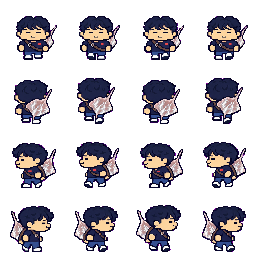
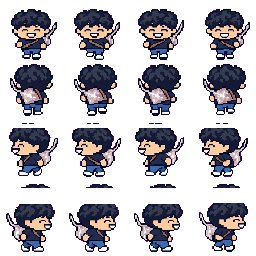
fix(story): BUILD273 캐시 키 273·도미조림 형섭식 1등신(사진 얼굴 도트화)·흐미 1:14:44.5·일행 가운데 정렬
- src/data/build.js 270 → 273 (271~273 동안 안 올려 브라우저가 옛 그림을 씀)
- 도미조림: 형섭 시트를 그대로 참조로 다시 그린 1등신, 붙여넣은 사진(#121)의 웃는 얼굴·웨이브 머리를
  도트화. 걷기 시트·초상화·흐미/점프 자세(점프 띠 160×144)·전투 그림·전투 대기 4프레임 전부 재생성
- 흐미 클립 1:14:44.50 부터 1.2초(사용자 “45초쯤”)
- 윗길 연출: 일행은 윗길 그대로 올라와 밑동 바로 아래 가운데, 둘은 뛰어 내려와 일행 양옆 같은 높이에 착지해 일행을 본다
- 도현 전투 대기 시트 화면 안(dx 24)

검사: 단위 통과, 플레이테스트 92 항목 통과, enemy.mjs domijorim --pattern=0|1 통과.

diff --git a/src/data/cutscenes/jjajang_sakura5.js b/src/data/cutscenes/jjajang_sakura5.js
@@ -28,10 +28,10 @@ export const PEEK_VIEW = [55, 5];            // “카메라 살짝 위로”: y
 export const CAM = { toClearing: 2.4, settle: 0.6, peek: 1.6, peekHold: 0.7, peekBack: 1.4, back: 1.4 };   // 카메라가 먼저 천천히 가고 대사는 그 뒤
 export const GIRLS_ZOOM = { zoom: 1.6, at: [1838, 296], duration: 1.4 };   // (가순이들로 카메라가 이동): 가순이 셋 가운데(맵 meta girlsFocus)로 천천히 줌인
 export const HEUMI = { height: 30, duration: 0.5, sfx: 'domijorim_heumi' };   // “흐미!!” 점프 + 가재맨 1:14:46.8 “흐미이이이!” 1.05초
-export const PARTY_SPOTS = { player: [1628, 304], gyeongsub: [1588, 308], ppaman: [1668, 308] };   // 밑동 왼쪽(맵 meta partyX 1640, 발 320) — 나란히
-export const PARTY_WALK = { firstY: 364, followerY: 372 };   // ㄱ자: 먼저 위로(배우·밑동 아래), 왼쪽으로, 다시 위로
-export const LEAP = { domijorim: { by: [-404, 70], height: 80 }, dohyun: { by: [-224, 70], height: 56 }, duration: 0.8 };   // 둘이 일행 **아래(앞)** 양옆으로 뛰어 착지(사용자 “밑으로 점프해서 바라보게”): 도미조림 x 1566, 도현 1708, 발 384 → 일행을 올려다본다
-export const LEAP_VIEW = [55, 10];          // 뛰기 전 카메라를 한 칸 아래로(y 156): 착지한 둘(발 384 → 화면 228)까지 대화창 위에
+export const PARTY_SPOTS = { player: [1704, 364], gyeongsub: [1660, 368], ppaman: [1748, 368] };   // 윗길 그대로 올라와 밑동 바로 아래 가운데(발 380, 사용자 “왼쪽으로 오지 말고 그냥 가운데”) — 경섭 왼쪽·억빠맨 오른쪽 나란히
+export const PARTY_WALK = { followerY: 392 };   // 동료는 위로 올라온 뒤 옆으로 한 걸음(44px)만
+export const LEAP = { domijorim: { by: [-402, 66], height: 80 }, dohyun: { by: [-120, 66], height: 56 }, duration: 0.8 };   // 둘이 뛰어 내려와 일행 양옆(같은 높이 발 380): 도미조림 x 1580(경섭 왼쪽), 도현 1812(억빠맨 오른쪽) → 일행을 본다
+export const LEAP_VIEW = [55, 10];          // 윗길 연출 카메라(y 156): 배우(발 314 → 158)·일행(발 380 → 224)·착지한 둘까지 대화창 위에
 export const DUO_BATTLE = { enemies: ['domijorim', 'dohyun'], bgm: 'petal_dance', bg: 'sakura', flag: 'sakura5_duo_won' };
 export const SAKURA5_SCENE_FLAG = 'sakura5_scene_done';
 export const SAKURA5_CLEARING_FLAG = 'sakura5_clearing_visited';
@@ -70,15 +70,15 @@ export const jjajang_sakura5_scene = [
 export const jjajang_sakura5_clearing = [
   { set: { [SAKURA5_CLEARING_FLAG]: true } },
   { bgm: CLEARING_BGM, volume: 0.5, fadeIn: 0.6 },
-  // 일행이 ㄱ자로 달려 올라와 밑동 왼쪽에 나란히(대각선 금지 — 위·왼쪽·위)
+  // 일행이 윗길 그대로 달려 올라와 밑동 바로 아래 가운데에(주인공은 곧장 위로, 동료는 올라온 뒤 옆으로 한 걸음)
   { parallel: [
-    [{ move: 'player', px: game => [game.player.x, PARTY_WALK.firstY], run: true }, { move: 'player', px: [PARTY_SPOTS.player[0], PARTY_WALK.firstY], run: true }, { move: 'player', px: PARTY_SPOTS.player, run: true, facing: 'up' }],
-    [{ move: 'gyeongsub', px: game => [actor(game, 'gyeongsub')?.x ?? game.player.x, PARTY_WALK.followerY], run: true }, { move: 'gyeongsub', px: [PARTY_SPOTS.gyeongsub[0], PARTY_WALK.followerY], run: true }, { move: 'gyeongsub', px: PARTY_SPOTS.gyeongsub, run: true, facing: 'up' }],
-    [{ move: 'ppaman', px: game => [actor(game, 'ppaman')?.x ?? game.player.x, PARTY_WALK.followerY], run: true }, { move: 'ppaman', px: [PARTY_SPOTS.ppaman[0], PARTY_WALK.followerY], run: true }, { move: 'ppaman', px: PARTY_SPOTS.ppaman, run: true, facing: 'up' }],
+    [{ move: 'player', px: PARTY_SPOTS.player, run: true, facing: 'up' }],
+    [{ move: 'gyeongsub', px: [PARTY_SPOTS.gyeongsub[0], PARTY_WALK.followerY], run: true, facing: 'up' }, { move: 'gyeongsub', px: PARTY_SPOTS.gyeongsub, run: true, facing: 'up' }],
+    [{ move: 'ppaman', px: [PARTY_SPOTS.ppaman[0], PARTY_WALK.followerY], run: true, facing: 'up' }, { move: 'ppaman', px: PARTY_SPOTS.ppaman, run: true, facing: 'up' }],
   ] },
   ...PARTY.map(id => ({ face: id, dir: 'right' })),
   // (카메라 천천히 — 일행과 다섯이 한 화면) → 멈춘 뒤 도미조림 느낌표, 일행 쪽을 본다
-  { camera: CLEARING_VIEW, duration: CAM.toClearing },
+  { camera: LEAP_VIEW, duration: CAM.toClearing },
   { wait: CAM.settle },
   { face: 'domijorim', dir: 'toward:player' },
   startle(['domijorim']),
@@ -97,7 +97,7 @@ export const jjajang_sakura5_clearing = [
   // (카메라 살짝 위로 갔다가 다시 돌아옴 — 천천히, 나무 맨 위는 화면 밖)
   { camera: PEEK_VIEW, duration: CAM.peek },
   { wait: CAM.peekHold },
-  { camera: CLEARING_VIEW, duration: CAM.peekBack },
+  { camera: LEAP_VIEW, duration: CAM.peekBack },
   { wait: 0.4 },
   H('사실 저기 벚꽃나무 맨 위에'),
   H('이상한 짜장면? 같은게 있는데 가순이들이 자꾸 최미스그새끼 준다고 가져와달라는거에요'),
@@ -135,17 +135,15 @@ export const jjajang_sakura5_clearing = [
   P('걍 족치고 가져가죠'),
   H('훗.. 악역을 자처하시겠다.'),
   close,
-  // 둘이 일행 아래 양옆으로 뛰어 내려와 일행을 바라본다 — 카메라 먼저 한 칸 아래로, 뛰는 자세(leap 띠: 웅크림 → 공중에서 홍어 뽑음 → 착지 → 전투 자세), 착지음
-  { camera: LEAP_VIEW, duration: 1.0 },
-  { wait: 0.3 },
+  // 둘이 뛰어 내려와 일행 양옆(같은 높이)에 서서 일행을 바라본다 — 뛰는 자세(leap 띠: 웅크림 → 공중에서 홍어 뽑음 → 착지 → 전투 자세), 착지음
   { async: [{ wait: LEAP.duration }, { sfx: 'thud' }] },
   { parallel: [
     { motion: 'domijorim', name: 'leap', sfx: 'jump' }, { hop: 'domijorim', by: LEAP.domijorim.by, height: LEAP.domijorim.height, duration: LEAP.duration, sfx: false },
     { motion: 'dohyun', name: 'leap' }, { hop: 'dohyun', by: LEAP.dohyun.by, height: LEAP.dohyun.height, duration: LEAP.duration, sfx: false },
   ] },
   pose('domijorim', 'ready'), pose('dohyun', 'ready'),
-  { face: 'domijorim', dir: 'up' }, { face: 'dohyun', dir: 'up' },
-  ...PARTY.map(id => ({ face: id, dir: 'down' })),
+  { face: 'domijorim', dir: 'right' }, { face: 'dohyun', dir: 'left' },
+  { face: 'player', dir: 'left' }, { face: 'gyeongsub', dir: 'left' }, { face: 'ppaman', dir: 'right' },
   { hop: 'domijorim', by: [0, 0], height: HEUMI.height, duration: HEUMI.duration, sfx: HEUMI.sfx },
   D('내꺼랑께요 흐미!!!!!!!!!!!!'),
   close,

diff --git a/src/data/character-motions.js b/src/data/character-motions.js
@@ -7,10 +7,10 @@ export const CHARACTER_MOTIONS = {
   domijorim: {
     heumi: { src: 'assets/sprites/domijorim-heumi.png', scale: 0.5, colorKey: { rMin: 256, gMax: -1, bMin: 256 },
       frames: [[0, 0.12], [1, 0.32], [2, 0.7], [3, 0.22]].map(([cell, duration]) => ({ rect: [cell * 128, 0, 128, 128], pivot: [64, 120], duration })) },
-    leap: { src: 'assets/sprites/domijorim-leap.png', scale: 0.5, colorKey: { rMin: 256, gMax: -1, bMin: 256 },   // 칸 160(홍어를 옆으로 뻗는 착지 칸이 128 을 넘는다)
-      frames: [[0, 0.18], [1, 0.62], [2, 0.2], [3, 0.6]].map(([cell, duration]) => ({ rect: [cell * 160, 0, 160, 128], pivot: [80, 120], duration })) },
+    leap: { src: 'assets/sprites/domijorim-leap.png', scale: 0.5, colorKey: { rMin: 256, gMax: -1, bMin: 256 },   // 칸 160×144(홍어를 옆·위로 뻗는 칸이 128 을 넘는다), 발 = 칸 아래 8px
+      frames: [[0, 0.18], [1, 0.62], [2, 0.2], [3, 0.6]].map(([cell, duration]) => ({ rect: [cell * 160, 0, 160, 144], pivot: [80, 136], duration })) },
     ready: { src: 'assets/sprites/domijorim-leap.png', scale: 0.5, colorKey: { rMin: 256, gMax: -1, bMin: 256 },
-      frames: [{ rect: [3 * 160, 0, 160, 128], pivot: [80, 120], duration: 1 }] },
+      frames: [{ rect: [3 * 160, 0, 160, 144], pivot: [80, 136], duration: 1 }] },
   },
   dohyun: {
     wave: { src: 'assets/sprites/dohyun-wave.png', scale: 0.5, colorKey: { rMin: 256, gMax: -1, bMin: 256 },

diff --git a/src/data/build.js b/src/data/build.js
@@ -1,1 +1,1 @@
-export const BUILD = '2026-09-20.270';
+export const BUILD = '2026-09-20.273';

diff --git a/assets/source/sakura5-v1/poses_export.py b/assets/source/sakura5-v1/poses_export.py
@@ -17,10 +17,10 @@ ROOT = Path(__file__).resolve().parent
 REPO = ROOT.parents[2]
 CELL = 128
 GRID = 512
-# 모션: (캐릭터, 기준 칸 index(0~3), 기준 칸 키 / 걷기 키 비율 — 팔을 든 자세는 걷기보다 커야 한다, 칸 폭(홍어를 옆으로 뻗는 leap 은 160))
+# 모션: (캐릭터, 기준 칸 index(0~3), 기준 칸 키 / 걷기 키 비율 — 팔을 든 자세는 걷기보다 커야 한다, 칸 폭 또는 (폭, 높이) — 홍어를 옆·위로 뻗는 leap 은 160×144, 발은 칸 아래 8px)
 MOTIONS = {
     'domijorim-heumi': ('domijorim', 3, 1.02, 128),
-    'domijorim-leap': ('domijorim', 3, 1.18, 160),
+    'domijorim-leap': ('domijorim', 3, 1.18, (160, 144)),
     'dohyun-wave': ('dohyun', 0, 1.0, 128),
     'dohyun-leap': ('dohyun', 3, 1.02, 128),
 }
@@ -40,18 +40,19 @@ def walk_height(character: str) -> int:
 
 
 def export(name: str) -> None:
-    character, ref_cell, factor, cell_w = MOTIONS[name]
+    character, ref_cell, factor, cell = MOTIONS[name]
+    cell_w, cell_h = cell if isinstance(cell, tuple) else (cell, CELL)
     clean = key_magenta(Image.open(ROOT / f'{name}-raw.png'))
     cells = [clean.crop((c * GRID, r * GRID, (c + 1) * GRID, (r + 1) * GRID)) for r in range(2) for c in range(2)]
     crops = [cell.crop(cell.getbbox()) for cell in cells]
     target = walk_height(character) * factor
     scale = target / crops[ref_cell].height
-    strip = Image.new('RGBA', (cell_w * 4, CELL))
+    strip = Image.new('RGBA', (cell_w * 4, cell_h))
     for i, crop in enumerate(crops):
         w, h = max(1, round(crop.width * scale)), max(1, round(crop.height * scale))
         sized = crop.resize((w, h), Image.Resampling.NEAREST)
-        assert w <= cell_w and h <= CELL, f'{name} 칸 {i} 이 칸을 넘는다 ({w}×{h} > {cell_w}×{CELL})'
-        strip.paste(sized, (i * cell_w + (cell_w - w) // 2, CELL - 8 - h))
+        assert w <= cell_w and h <= cell_h, f'{name} 칸 {i} 이 칸을 넘는다 ({w}×{h} > {cell_w}×{cell_h})'
+        strip.paste(sized, (i * cell_w + (cell_w - w) // 2, cell_h - 8 - h))
     out = REPO / 'assets/sprites' / f'{name}.png'; strip.save(out)
     print(name, 'scale', round(scale, 3), 'heights', [round(c.height * scale) for c in crops], '→', out.name)
 

diff --git a/assets/source/sakura5-v1/export.py b/assets/source/sakura5-v1/export.py
@@ -20,8 +20,9 @@ ROOT = Path(__file__).resolve().parent
 REPO = ROOT.parents[2]
 DIRECTIONS = ("down", "up", "left", "right")
 RAW_ROWS = (0, 3, 1, 2)            # 원본 행 순서 down/left/right/up → 게임 순서 down/up/left/right
+RAW_ROWS_BY = {"domijorim": (0, 1, 2, 3)}   # 도미조림 5차 시트는 형섭 시트를 그대로 참조해 행 순서가 이미 down/up/left/right
 CELL = 64
-FIT = {"dohyun": "0.74", "domijorim": "0.84"}   # 도현: 처음 0.92(“얇고 살짝 길죽하게”)에서 사용자 “비율 키 20퍼 줄여라” → ×0.8 = 0.74. 도미조림 2등신 시트는 기본
+FIT = {"dohyun": "0.74", "domijorim": "0.98"}   # 도현: 처음 0.92(“얇고 살짝 길죽하게”)에서 사용자 “비율 키 20퍼 줄여라” → ×0.8 = 0.74. 도미조림 5차 시트는 형섭 시트(칸을 거의 채움)와 같은 크기가 되게 0.98
 SHEETS = ("dohyun", "domijorim", "gasuni4", "gasuni5", "gasuni6")
 TREE_SCALE = 3                     # 1024 원본 → 1/3
 
@@ -55,7 +56,7 @@ def export_sheet(name: str) -> None:
     sheet = Image.new("RGBA", (CELL * 4, CELL * 4))
     for row, direction in enumerate(DIRECTIONS):
         for column in range(4):
-            info = metadata["frames"][RAW_ROWS[row] * 4 + column]
+            info = metadata["frames"][RAW_ROWS_BY.get(name, RAW_ROWS)[row] * 4 + column]
             crop = clean.crop(info["source_box"]).crop(info["crop_bbox"])
             sized = crop.resize(tuple(info["output_size"]), Image.Resampling.NEAREST)
             frame = Image.new("RGBA", (CELL, CELL))

diff --git a/docs/STATE.md b/docs/STATE.md
@@ -2,7 +2,9 @@
 
 마지막 갱신: 2026-09-20
 
-**BUILD273 — 벚꽃 숲 5 3차 정정**(사용자 2026-09-20, 원문 `jjajang_sakura5.md` 3차 정정 절): 흐미 클립 1:14:43.2 부터 1.25초(“44초에 소리라고”); 도미조림 시트·자세·전투 그림·전투 대기를 **형섭 시트를 스타일 참조로 한 1등신**(사용자 “기존 섭타룬 애들 참고, 1등신으로”)·사진 얼굴·머리(굵은 웨이브) 그대로 재생성(모델은 전부 gpt-image-2.5-sunburst); “도미조림형이 악역을 자처해서..” 는 도현 대사; 둘은 일행 **아래(앞)** 양옆으로 뛰어 착지해 일행을 올려다본다(뛰기 전 카메라 한 칸 아래); 전투 대기는 정지 그림+sway 대신 4프레임 시트(`assets/enemies/<id>-battle-idle.png`, gpt-image 2×2 → 160 셀, idle sway 0 — 도미조림 숨쉬기·불꽃, 도현 좌우 살랑살랑 춤); 카톡 패턴은 한 번에 한 줄씩(왼쪽 → 0.55초 뒤 ≥64px 떨어진 줄 오른쪽 → 둘 다 지나간 뒤 낙하), 속도 110/200.
+**BUILD273(후속) — 캐시 키·일행 자리**: `src/data/build.js` BUILD 를 270 → 273 으로(271~273 동안 안 올려 브라우저가 옛 그림을 썼다 — 사용자 “똑같잖아 / 메인에선 빌드버전 270 유지”. **그림·소리를 바꾸면 BUILD 를 같이 올린다**). 윗길 연출의 일행은 왼쪽으로 돌지 않고 윗길 그대로 올라와 밑동 바로 아래 가운데에(사용자 “왜 왼쪽으로 오냐 그냥 가운데”), 둘은 뛰어 내려와 일행 양옆 같은 높이에 착지해 일행을 본다.
+
+**BUILD273 — 벚꽃 숲 5 3차 정정**(사용자 2026-09-20, 원문 `jjajang_sakura5.md` 3차 정정 절): 흐미 클립 1:14:43.2 부터 1.25초(“44초에 소리라고”); 도미조림 시트·자세·전투 그림·전투 대기를 **형섭 시트를 그대로 다시 그린 1등신**(참조 = 형섭 런타임 시트, 머리 2/3·같은 픽셀 크기·같은 포즈, 얼굴·머리·옷·홍어만 교체 — 사용자 “기존 섭타룬 애들 참고, 1등신으로 / 1등신이냐 저게?”, 얼굴은 붙여넣은 사진 #121 “얼굴 똑바로 똑같이 / 도트화만” 을 큰 참조로)으로 재생성(모델은 전부 gpt-image-2.5-sunburst); 흐미 클립은 1:14:44.5 부터 1.2초(“45초쯤”); “도미조림형이 악역을 자처해서..” 는 도현 대사; 둘은 일행 **아래(앞)** 양옆으로 뛰어 착지해 일행을 올려다본다(뛰기 전 카메라 한 칸 아래); 전투 대기는 정지 그림+sway 대신 4프레임 시트(`assets/enemies/<id>-battle-idle.png`, gpt-image 2×2 → 160 셀, idle sway 0 — 도미조림 숨쉬기·불꽃, 도현 좌우 살랑살랑 춤); 카톡 패턴은 한 번에 한 줄씩(왼쪽 → 0.55초 뒤 ≥64px 떨어진 줄 오른쪽 → 둘 다 지나간 뒤 낙하), 속도 110/200.
 
 **BUILD272 — 벚꽃 숲 5 재배치·스프라이트 재생성·연출/전투 재작업**(사용자 2차 정정 2026-09-20, 원문 `design/narrative/cutscenes/jjajang_sakura5.md` 2차 정정 절): ① “흐미” 클립을 1:14:46.8 “흐미이이이!”로 재절단(음성인식 확인, 삐- 처리음 제외). ② 거대 벚꽃 나무를 훨씬 크게 재생성(768×762, 밑동 짧게, 그림 위 412px 는 맵 밖 → 카메라에 맨 위가 안 보임), 배우 다섯은 밑동 오른쪽 땅(뿌리 앞, 밑동 36px 위), 일행 자리는 밑동 왼쪽. 연출 트리거는 갈림목 사이공간(49~52열). ③ 도미조림 2등신·사진 얼굴·황갈 피부 시트/초상화/전투 그림 재생성, 도현 시트(선화 얼굴) 재생성·키 20% 축소(fit 0.74, 전투 scale 0.72). ④ 자세 모션(gpt-image 2×2 그리드 → 128 띠, `character-motions.js`): 도미조림 heumi(두 팔 번쩍 외침)·leap(홍어 뽑고 착지·전투 자세)·ready, 도현 wave·hello·leap·ready. ⑤ 컷신: 카메라는 먼저 천천히(≥1.4초, 공터로 2.4초) 가고 멈춘 뒤 대사, 놀람은 살짝 점프+느낌표, 가순이들로 줌인(1.6배)·줌아웃, 둘이 뛰는 자세로 일행 양옆에 착지(착지음) → “내꺼랑께요 흐미!!!!” → `battleEntry`(공통 전투 진입 연출) → 전투. ⑥ 전투 패턴 재설계(`sakura5-patterns.js`, 회피 축 둘·전용 실루엣·예고·델타룬 소리, whoosh 금지): 홍어 부메랑(U턴·되돌아올 줄 예고·서리 조각), 횃불 둘 → 불기둥+불티, 도현 낙하 → 바닥 미끄러짐, 카톡 두 줄 + 큰 풍선 낙하. 말풍선(`speak`)은 원문 “흐미!!/내꺼랑께요”, “훗../악역을 자처하시겠다.”. ⑦ 목소리: 도현 지지직 제거(loudnorm 대신 lowpass·페이드), 도미조림 더 굵고 낮게(0.92배·저음 +7dB). 검사 `tests/unit/jjajang-sakura5.test.mjs`(재배치·카메라 시간·모션·진입 연출·패턴 계약), `tests/playtest/jjajang-sakura5.mjs`, `tests/playtest/enemy.mjs domijorim|dohyun --pattern=0|1`.
 

diff --git a/assets/source/sakura5-v1/README.md b/assets/source/sakura5-v1/README.md
@@ -30,3 +30,6 @@
 - 목소리 재조정: `voices/dohyun.mp3` = snd_txtal 1.1배 + lowpass 3.2kHz + 페이드(loudnorm 제거 — “지지직”), `voices/domijorim.mp3` = janitor 0.92배 + bass +7dB + lowpass 2.2kHz(“더 굵게 낮게”).
 - (3차, 사용자 “44초에 소리라고”) 1:14:43.20 부터 1.25초로 재절단(음성인식이 ‘아워’로 적은 1:14:42.9~44.06 발성 구간 = 흐미~). 1:14:46.8 절단은 폐기.
 - (4차, 사용자 “도트풍 퀄리티 기존 섭타룬 애들 참고 안 하나, 1등신으로”) `domijorim-chibi4-raw.png`(`domijorim-chibi4.prompt.txt`, 참조 = `domijorim-style-ref.png` — 형섭 런타임 시트(스타일·1등신 비율) + 사진(얼굴)): 형섭과 같은 도트 밀도·굵은 윤곽·1등신, 사진의 웨이브 머리·얼굴, 등에 얼린 홍어. `domijorim-raw.png` 로 채택, 자세·전투·전투 대기도 이 시트 참조로 재생성. 3차 시트는 `domijorim-v4-chibi3-raw.png`(커밋하지 않음). 모델은 전부 `openai/gpt-image-2.5-sunburst`(meta.json).
+- (4차, 사용자 “45초쯤 소리라고”) 1:14:44.50 부터 1.2초로 재절단(1:14:44.55~45.6 발성 구간). 43.2 절단은 폐기.
+- (5차, 사용자 “1등신이냐 저게?”) `domijorim-chibi5-raw.png`(`domijorim-chibi5.prompt.txt`, 참조 = `hero-sheet-ref.png` = 형섭 런타임 시트를 마젠타에 얹어 1024 로): “형섭 시트를 그대로 다시 그리되 얼굴·머리·옷·홍어만 바꿔라” — 머리 2/3·같은 픽셀 크기·같은 걷기 포즈·행 순서(down/up/left/right, `export.py RAW_ROWS_BY`). `domijorim-raw.png` 로 채택, 자세·전투·전투 대기 재생성. 4차 시트는 `domijorim-v5-chibi4-raw.png`(커밋하지 않음).
+- (6차, 사용자 “[사진 #121] 얼굴 똑바로 똑같이 / 도트화만 하고”) `domijorim-face2-ref.png`(붙여넣은 사진, otty-paste 에서 복사) + 형섭 시트(작게) 합성 `domijorim-face2-composed.png` 를 참조로 `domijorim-chibi6-raw.png`(`domijorim-chibi6.prompt.txt`: “이 얼굴을 그대로 도트화”) → `domijorim-raw.png` 채택(fit 0.98 = 형섭과 같은 크기), 자세·전투·대기 재생성. 5차는 `domijorim-v6-chibi5-raw.png`(커밋하지 않음).
